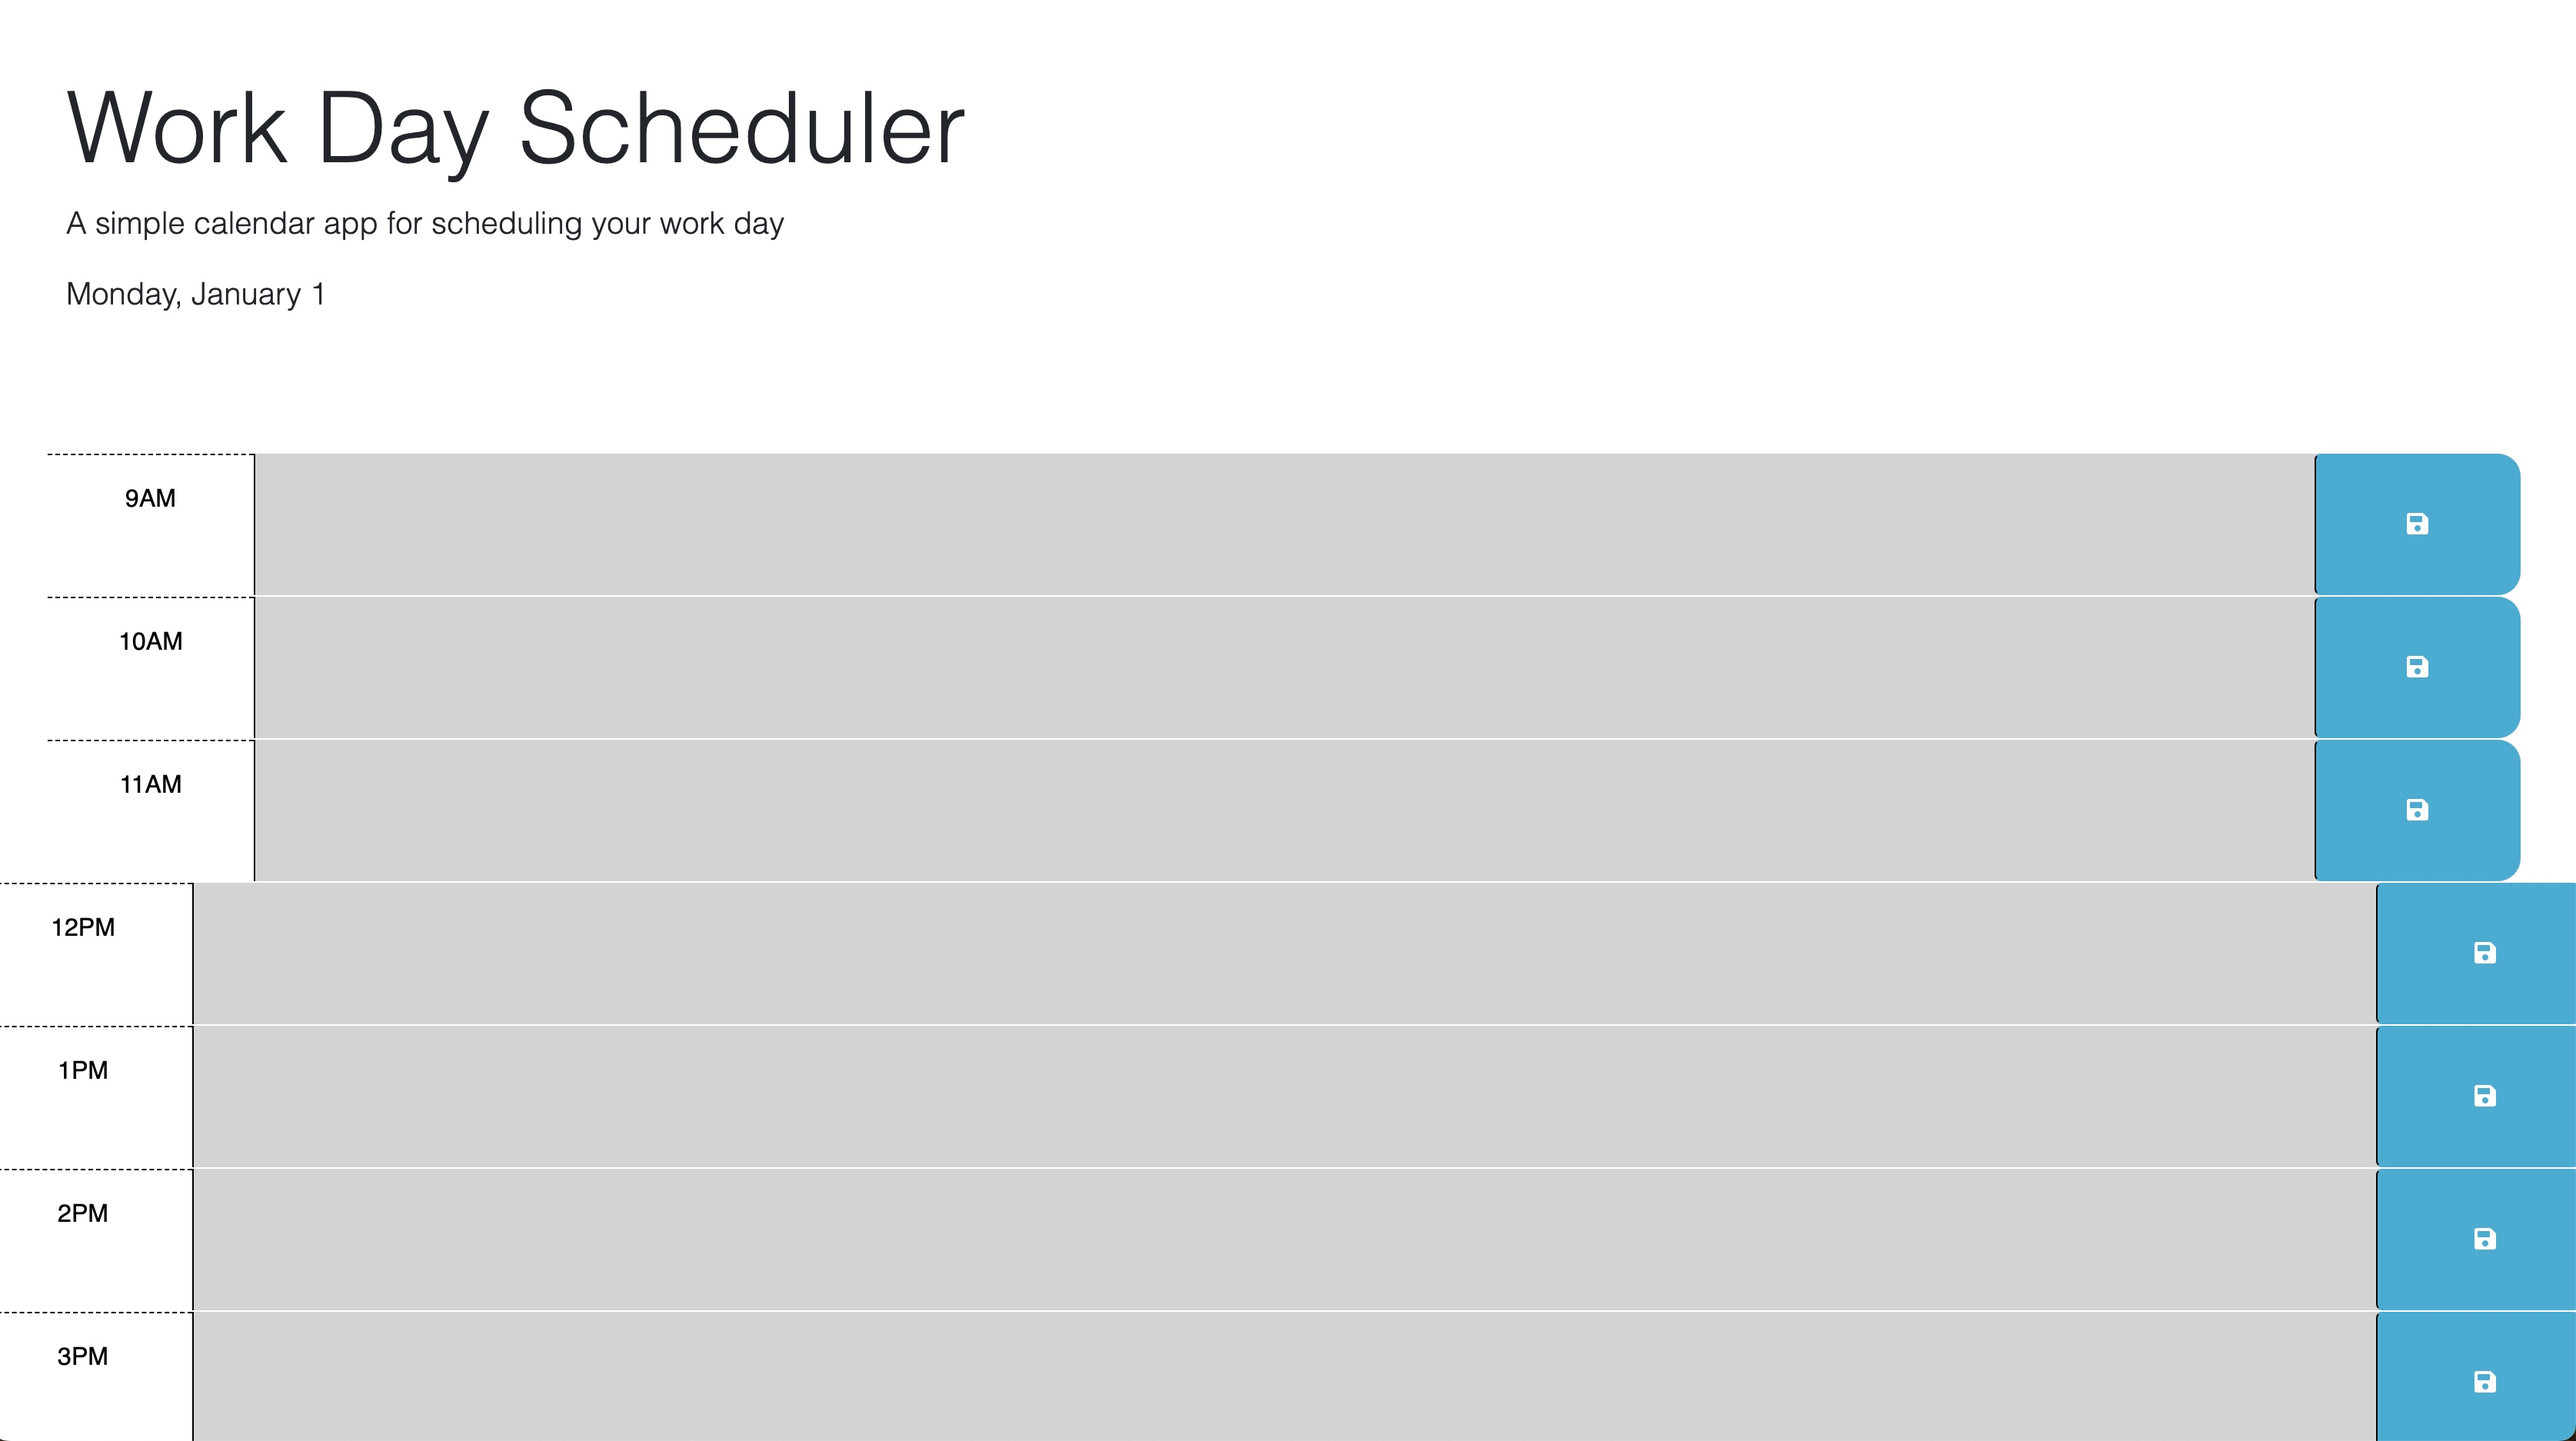
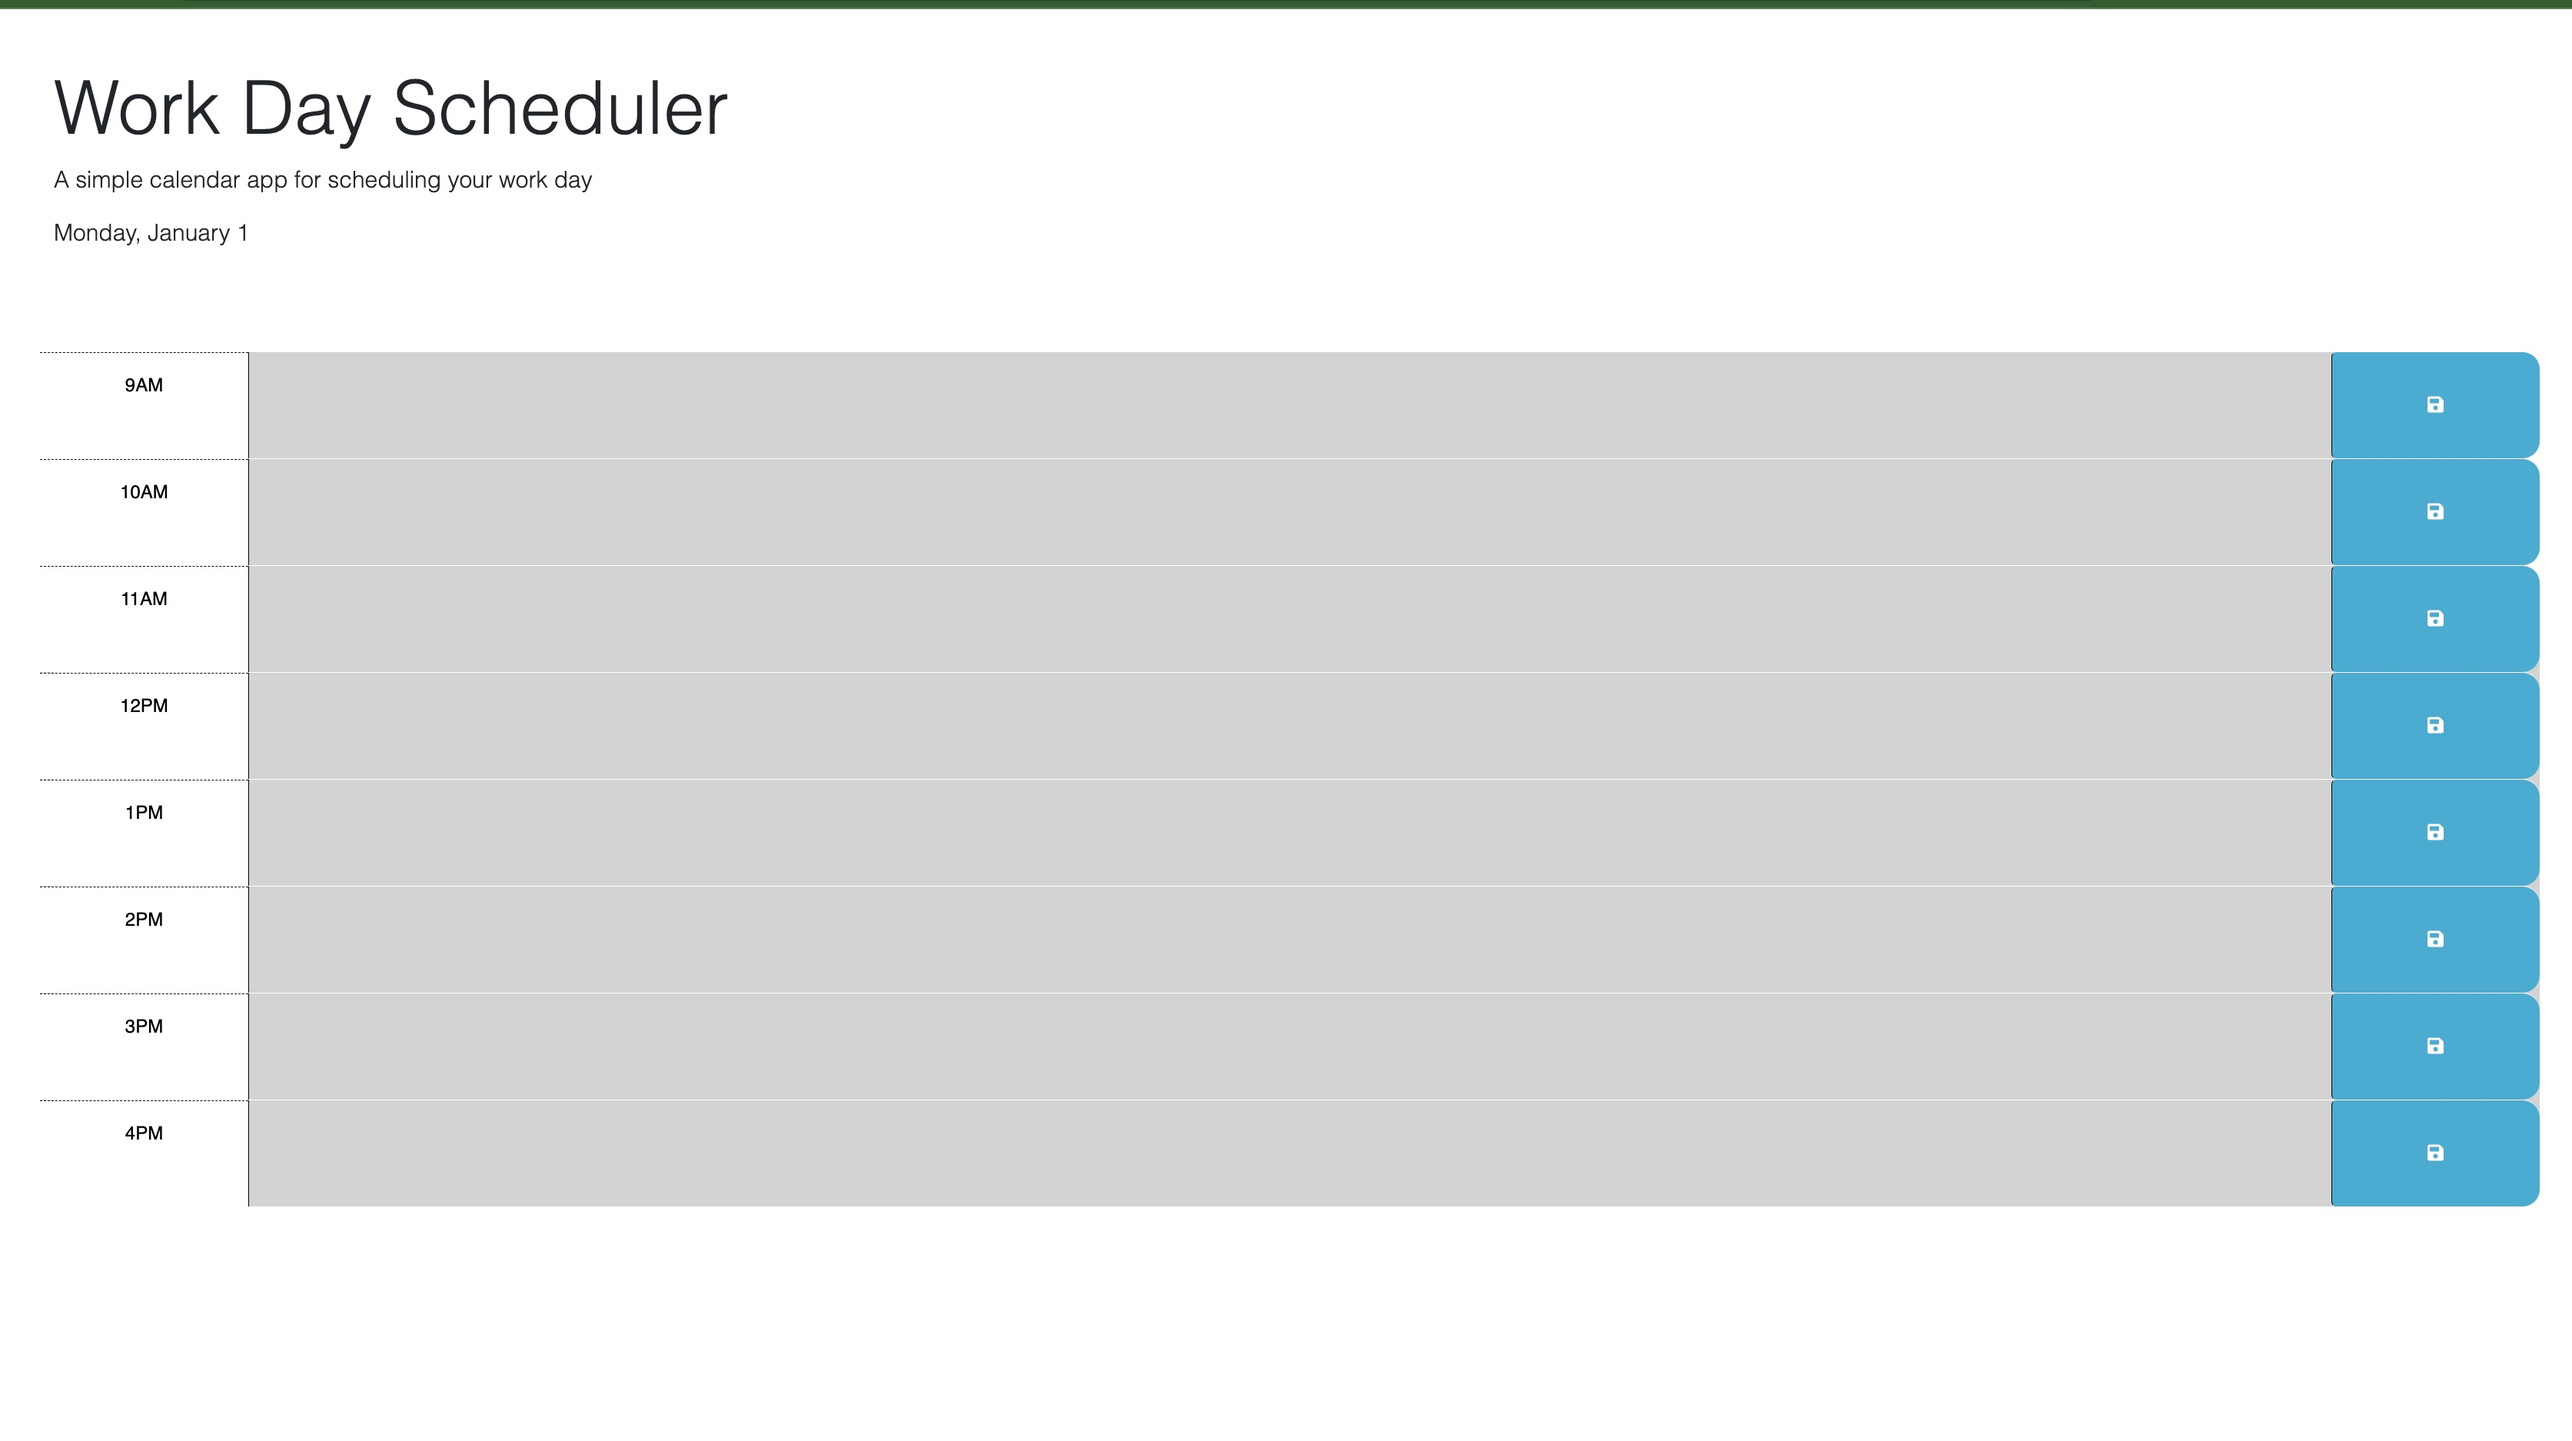
Added fixes to html closing tags and changed screenshot

diff --git a/index.html b/index.html
@@ -54,8 +54,8 @@
         <button class="btn saveBtn col-2 col-md-1" aria-label="save">
           <i class="fas fa-save" aria-hidden="true"></i>
         </button>
-      </div>
-    </div>
+      <div>
+
 
     <div id="hour-12" class="row time-block future">
       <div class="col-2 col-md-1 hour text-center py-3">12PM</div>
@@ -96,7 +96,7 @@
         <i class="fas fa-save" aria-hidden="true"></i>
       </button>
     </div>
-
+  </div>
     <script src="https://cdnjs.cloudflare.com/ajax/libs/jquery/3.2.1/jquery.min.js"></script>
     <script src="https://cdn.jsdelivr.net/npm/dayjs@1.11.3/dayjs.min.js"
     integrity="sha256-iu/zLUB+QgISXBLCW/mcDi/rnf4m4uEDO0wauy76x7U="
